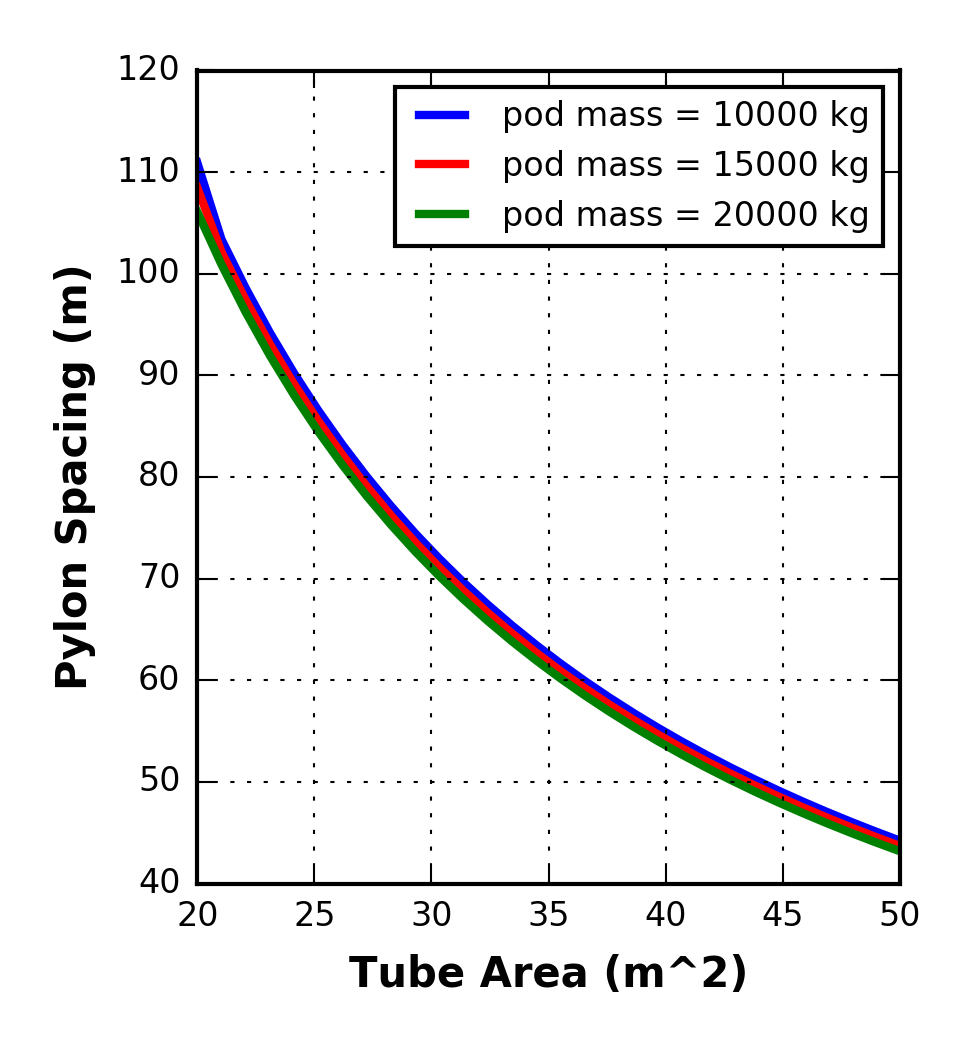
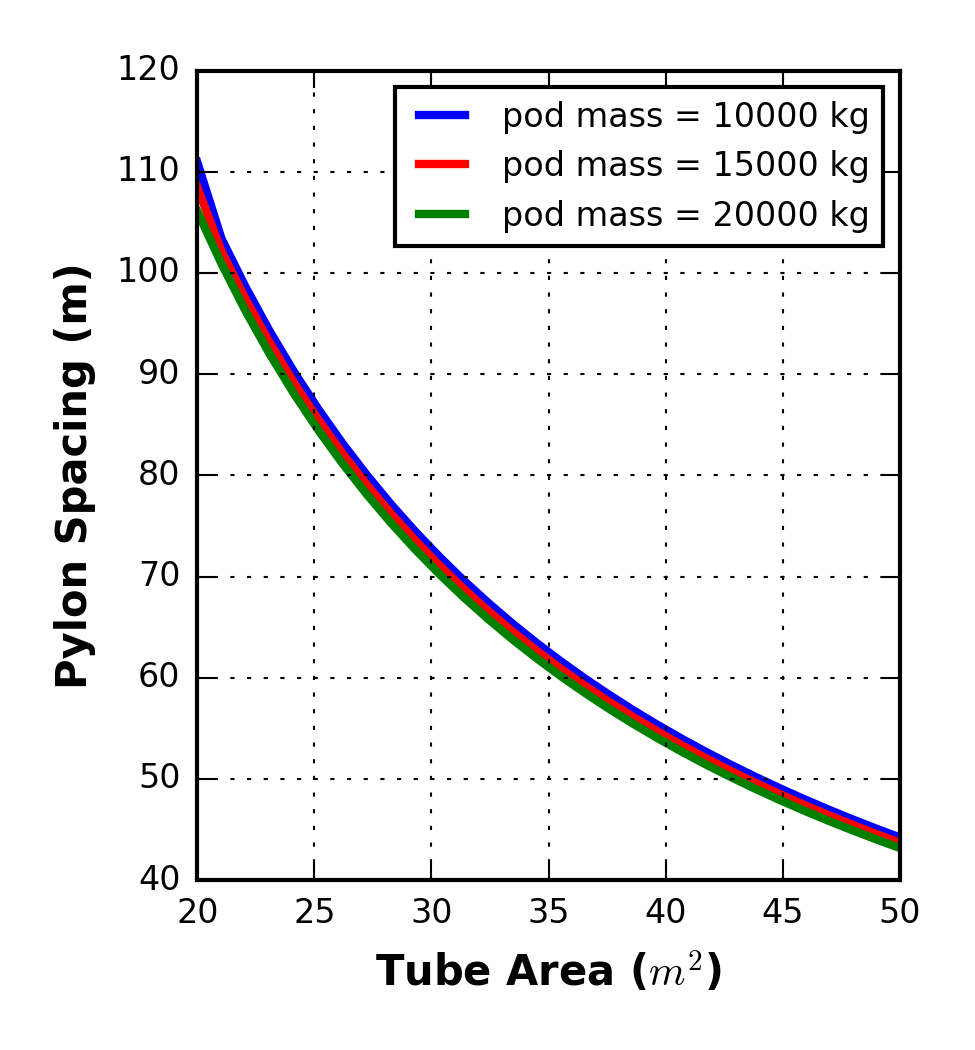
Updated m^2

diff --git a/paper/images/trade_scripts/pressure_zoom_writer.py b/paper/images/trade_scripts/pressure_zoom_writer.py
@@ -1,0 +1,149 @@
+import numpy as np
+import matplotlib.pylab as plt
+from openmdao.api import Group, Problem, IndepVarComp
+
+from hyperloop.Python import tube_and_pod
+
+# def create_problem(component):
+#     root = Group()
+#     prob = Problem(root)
+#     prob.root.add('comp', component)
+#     return prob
+
+# class PressureTradeStudy(object):
+#     def test_case1_vs_npss(self):
+
+#         component = tube_and_pod.TubeAndPod()
+#         prob = create_problem(component)
+
+if __name__ == '__main__':
+	prob = Problem()
+	root = prob.root = Group()
+
+	root.add('TubeAndPod', tube_and_pod.TubeAndPod())
+
+	params = (('tube_pressure', 850.0, {'units' : 'Pa'}),
+				('pressure_initial', 760.2, {'units' : 'torr'}),
+				('num_pods', 18.),
+				('pwr', 18.5, {'units' : 'kW'}),
+				('speed', 163333.3, {'units' : 'L/min'}),
+				('time_down', 1440.0, {'units' : 'min'}),
+				('gamma', .8, {'units' : 'unitless'}),
+				('pump_weight', 715.0, {'units' : 'kg'}),
+				('electricity_price', 0.13, {'units' : 'USD/(kW*h)'}),
+				('tube_thickness', .0415014, {'units' : 'm'}),
+				('tube_length', 480000., {'units' : 'm'}),
+				('vf', 286.85, {'units' : 'm/s'}),
+				('v0', 286.85-15.0, {'units' : 'm/s'}),
+				('time_thrust', 1.5, {'units' : 's'}),
+				('pod_mach', .8, {'units': 'unitless'}),
+				('comp_inlet_area', 2.3884, {'units': 'm**2'}),
+				('comp_PR', 6.0, {'units': 'unitless'}),
+				('PsE', 0.05588, {'units': 'psi'}),
+				('des_time', 1.0),
+				('time_of_flight', 1.0),
+				('motor_max_current', 800.0),
+				('motor_LD_ratio', 0.83),
+				('motor_oversize_factor', 1.0),
+				('inverter_efficiency', 1.0),
+				('battery_cross_section_area', 15000.0, {'units': 'cm**2'}),
+				('n_passengers', 28.),
+				('A_payload', 2.3248, {'units' : 'm**2'}),
+				('r_pylon', 0.232, {'units' : 'm'}),
+				('h', 10.0, {'units' : 'm'}),
+				('vel_b', 23.0, {'units': 'm/s'}),
+				('h_lev', 0.01, {'unit': 'm'}),
+				('vel', 286.86, {'units': 'm/s'}),
+				('pod_period', 120.0, {'units' : 's'}),
+				('ib', .04),
+				('bm', 20.0, {'units' : 'yr'}),
+				('track_length', 600.0, {'units' : 'km'}),
+				('avg_speed', 286.86, {'units' : 'm/s'}),
+				('depth', 10.0, {'units' : 'm'}),
+				('land_length', 600.0e3, {'units' : 'm'}),
+				('water_length', 0.0e3, {'units' : 'm'}),
+				('W', 1.0, {'units' : 'kg/s'}),
+				('operating_time', 16.0*3600.0, {'units' : 's'})
+				)
+
+	prob.root.add('des_vars', IndepVarComp(params))
+	prob.root.connect('des_vars.tube_pressure', 'TubeAndPod.tube_pressure')
+	prob.root.connect('des_vars.pressure_initial', 'TubeAndPod.pressure_initial')
+	prob.root.connect('des_vars.num_pods', 'TubeAndPod.num_pods')
+	prob.root.connect('des_vars.pwr','TubeAndPod.pwr')
+	prob.root.connect('des_vars.speed', 'TubeAndPod.speed')
+	prob.root.connect('des_vars.time_down', 'TubeAndPod.time_down')
+	prob.root.connect('des_vars.gamma','TubeAndPod.gamma')
+	prob.root.connect('des_vars.pump_weight','TubeAndPod.pump_weight')
+	prob.root.connect('des_vars.electricity_price','TubeAndPod.electricity_price')
+	prob.root.connect('des_vars.tube_thickness', 'TubeAndPod.tube_thickness')
+	prob.root.connect('des_vars.tube_length', 'TubeAndPod.tube_length')
+	prob.root.connect('des_vars.h', 'TubeAndPod.h')
+	prob.root.connect('des_vars.r_pylon', 'TubeAndPod.r_pylon')
+	prob.root.connect('des_vars.vf', 'TubeAndPod.vf')
+	prob.root.connect('des_vars.v0', 'TubeAndPod.v0')
+	prob.root.connect('des_vars.time_thrust', 'TubeAndPod.time_thrust')
+	prob.root.connect('des_vars.pod_mach', 'TubeAndPod.pod_mach')
+	prob.root.connect('des_vars.comp_inlet_area', 'TubeAndPod.comp_inlet_area')
+	prob.root.connect('des_vars.comp_PR', 'TubeAndPod.comp.map.PRdes')
+	prob.root.connect('des_vars.PsE', 'TubeAndPod.nozzle.Ps_exhaust')
+	prob.root.connect('des_vars.des_time', 'TubeAndPod.des_time')
+	prob.root.connect('des_vars.time_of_flight', 'TubeAndPod.time_of_flight')
+	prob.root.connect('des_vars.motor_max_current', 'TubeAndPod.motor_max_current')
+	prob.root.connect('des_vars.motor_LD_ratio', 'TubeAndPod.motor_LD_ratio')
+	prob.root.connect('des_vars.motor_oversize_factor', 'TubeAndPod.motor_oversize_factor')
+	prob.root.connect('des_vars.inverter_efficiency', 'TubeAndPod.inverter_efficiency')
+	prob.root.connect('des_vars.battery_cross_section_area', 'TubeAndPod.battery_cross_section_area')
+	prob.root.connect('des_vars.n_passengers', 'TubeAndPod.n_passengers')
+	prob.root.connect('des_vars.A_payload', 'TubeAndPod.A_payload')
+	prob.root.connect('des_vars.vel_b', 'TubeAndPod.vel_b')
+	prob.root.connect('des_vars.h_lev', 'TubeAndPod.h_lev')
+	prob.root.connect('des_vars.vel', 'TubeAndPod.vel')
+	prob.root.connect('des_vars.pod_period', 'TubeAndPod.cost.pod_period')
+	prob.root.connect('des_vars.ib', 'TubeAndPod.cost.ib')
+	prob.root.connect('des_vars.bm', 'TubeAndPod.cost.bm')
+	prob.root.connect('des_vars.track_length', 'TubeAndPod.track_length')
+	prob.root.connect('des_vars.avg_speed', 'TubeAndPod.cost.avg_speed')
+	prob.root.connect('des_vars.land_length', 'TubeAndPod.land_length')
+	prob.root.connect('des_vars.water_length', 'TubeAndPod.water_length')
+	prob.root.connect('des_vars.operating_time', 'TubeAndPod.operating_time')
+	prob.root.connect('des_vars.W', 'TubeAndPod.fl_start.W')
+
+	prob.setup()
+
+	p_tunnel = np.linspace(40.0, 500.0, num = 50, endpoint = False)
+	A_tube = np.zeros((1, len(p_tunnel)))
+	Re = np.zeros((1, len(p_tunnel)))
+	T_tunnel = np.zeros((1, len(p_tunnel)))
+	L_pod = np.zeros((1, len(p_tunnel)))
+	Drag = np.zeros((1, len(p_tunnel)))
+	power = np.zeros((1, len(p_tunnel)))
+	steady_vac = np.zeros((1,len(p_tunnel)))
+	total_energy = np.zeros((1, len(p_tunnel)))
+	thrust = np.zeros((1, len(p_tunnel)))
+
+	for i in range(len(p_tunnel)):
+
+		prob['des_vars.tube_pressure'] = p_tunnel[i]
+
+		prob.run()
+
+		A_tube[0,i] = prob['TubeAndPod.pod.A_tube']
+		Re[0,i] = prob['TubeAndPod.pod.pod_mach.Re']
+		T_tunnel[0,i] = prob['TubeAndPod.tube.temp_boundary']
+		L_pod[0,i] = prob['TubeAndPod.L_pod']
+		power[0,i] = -1.0*prob['TubeAndPod.pod.cycle.comp.power']
+		steady_vac[0,i] = -1.0*prob['TubeAndPod.tube.comp.power']
+		total_energy[0,i] = prob['TubeAndPod.cost.total_energy_cost']
+
+		print(i)
+
+
+	np.savetxt('../../../paper/images/data_files/pressure_zoom/p_tunnel.txt', p_tunnel, fmt = '%f', delimiter = '\t', newline = '\r\n')
+	np.savetxt('../../../paper/images/data_files/pressure_zoom/Re.txt', Re, fmt = '%f', delimiter = '\t', newline = '\r\n')
+	np.savetxt('../../../paper/images/data_files/pressure_zoom/A_tube.txt', A_tube, fmt = '%f', delimiter = '\t', newline = '\r\n')
+	np.savetxt('../../../paper/images/data_files/pressure_zoom/T_tunnel.txt', T_tunnel, fmt = '%f', delimiter = '\t', newline = '\r\n')
+	np.savetxt('../../../paper/images/data_files/pressure_zoom/L_pod.txt', L_pod, fmt = '%f', delimiter = '\t', newline = '\r\n')
+	np.savetxt('../../../paper/images/data_files/pressure_zoom/comp_power.txt', power, fmt = '%f', delimiter = '\t', newline = '\r\n')
+	np.savetxt('../../../paper/images/data_files/pressure_zoom/vac_power.txt', steady_vac, fmt = '%f', delimiter = '\t', newline = '\r\n')
+	np.savetxt('../../../paper/images/data_files/pressure_zoom/total_energy.txt', total_energy, fmt = '%f', delimiter = '\t', newline = '\r\n')

diff --git a/paper/images/trade_scripts/boundary_layer_growth_plot.py b/paper/images/trade_scripts/boundary_layer_growth_plot.py
@@ -9,11 +9,11 @@ ax = plt.axes()
 plt.setp(ax.get_xticklabels(), fontsize=8)
 plt.setp(ax.get_yticklabels(), fontsize=8)
 plt.hold(True)
-line1, = plt.plot(delta_star, A_tube[0,:], 'b-', linewidth = 2.0, label = 'A_pod = 2.0 m^2')
-line2, = plt.plot(delta_star, A_tube[1,:], 'r-', linewidth = 2.0, label = 'A_pod = 2.5 m^2')
-line3, = plt.plot(delta_star, A_tube[2,:], 'g-', linewidth = 2.0, label = 'A_pod = 3.0 m^2')
-plt.xlabel('Displacement Boundary Layer (m)', fontsize = 10, fontweight = 'bold')
-plt.ylabel('Tube Area (m^2)', fontsize = 10, fontweight = 'bold')
+line1, = plt.plot(delta_star, A_tube[0,:], 'b-', linewidth = 2.0, label = 'A_pod = 2.0 $m^2$')
+line2, = plt.plot(delta_star, A_tube[1,:], 'r-', linewidth = 2.0, label = 'A_pod = 2.5 $m^2$')
+line3, = plt.plot(delta_star, A_tube[2,:], 'g-', linewidth = 2.0, label = 'A_pod = 3.0 $m^2$')
+plt.xlabel('Boundary Layer Thickness (m)', fontsize = 8, fontweight = 'bold')
+plt.ylabel('Tube Area ($m^2$)', fontsize = 10, fontweight = 'bold')
 plt.grid('on')
 plt.xlim(.02, .12)
 plt.legend(handles = [line1, line2, line3], loc = 2, fontsize = 8)

diff --git a/paper/images/trade_scripts/boundary_layer_length_plot.py b/paper/images/trade_scripts/boundary_layer_length_plot.py
@@ -9,11 +9,11 @@ fig = plt.figure(figsize = (3.25,3.5), tight_layout = True)
 ax = plt.axes()
 plt.setp(ax.get_xticklabels(), fontsize=8)
 plt.setp(ax.get_yticklabels(), fontsize=8)
-line1, = plt.plot(L_pod, A_tube[0,:], 'b-', linewidth = 2.0, label = 'A_pod = 2.0 m^2')
-line2, = plt.plot(L_pod, A_tube[1,:], 'r-', linewidth = 2.0, label = 'A_pod = 2.5 m^2')
-line3, = plt.plot(L_pod, A_tube[2,:], 'g-', linewidth = 2.0, label = 'A_pod = 3.0 m^2')
+line1, = plt.plot(L_pod, A_tube[0,:], 'b-', linewidth = 2.0, label = 'A_pod = 2.0 $m^2$')
+line2, = plt.plot(L_pod, A_tube[1,:], 'r-', linewidth = 2.0, label = 'A_pod = 2.5 $m^2$')
+line3, = plt.plot(L_pod, A_tube[2,:], 'g-', linewidth = 2.0, label = 'A_pod = 3.0 $m^2$')
 plt.xlabel('Pod Length (m)', fontsize = 10, fontweight = 'bold')
-plt.ylabel('Tube Area (m^2)', fontsize = 10, fontweight = 'bold')
+plt.ylabel('Tube Area ($m^2$)', fontsize = 10, fontweight = 'bold')
 plt.ylim([15,45])
 plt.legend(handles = [line1, line2, line3], loc = 2, fontsize = 8)
 plt.grid('on')

diff --git a/paper/images/trade_scripts/underwater_structural_trades_plot.py b/paper/images/trade_scripts/underwater_structural_trades_plot.py
@@ -13,7 +13,7 @@ plt.setp(ax.get_yticklabels(), fontsize=8)
 line1, = plt.plot(A_tube, t[0,:], 'b-', linewidth = 2.0, label = 'depth = 20 m')
 line2, = plt.plot(A_tube, t[1,:], 'r-', linewidth = 2.0, label = 'depth = 40 m')
 line3, = plt.plot(A_tube, t[2,:], 'g-', linewidth = 2.0, label = 'depth = 60 m')
-plt.xlabel('Tube Area (m^2)', fontsize = 10, fontweight = 'bold')
+plt.xlabel('Tube Area ($m^2$)', fontsize = 10, fontweight = 'bold')
 plt.ylabel('Tube Thickness (m)', fontsize = 10, fontweight = 'bold')
 plt.grid('on')
 plt.legend(handles = [line1, line2, line3], loc = 2, fontsize = 8)

diff --git a/paper/images/trade_scripts/overland_structural_trades_plot.py b/paper/images/trade_scripts/overland_structural_trades_plot.py
@@ -14,7 +14,7 @@ plt.hold(True)
 line1, = plt.plot(A_tube, dx[0,:], 'b-', linewidth = 2.0, label = 'pod mass = 10000 kg')
 line2, = plt.plot(A_tube, dx[1,:], 'r-', linewidth = 2.0, label = 'pod mass = 15000 kg')
 line3, = plt.plot(A_tube, dx[2,:], 'g-', linewidth = 2.0, label = 'pod mass = 20000 kg')
-plt.xlabel('Tube Area (m^2)', fontsize = 10, fontweight = 'bold')
+plt.xlabel('Tube Area ($m^2$)', fontsize = 10, fontweight = 'bold')
 plt.ylabel('Pylon Spacing (m)', fontsize = 10, fontweight = 'bold')
 plt.grid('on')
 plt.legend(handles = [line1, line2, line3], loc = 1, fontsize = 8)

diff --git a/paper/images/trade_scripts/pressure_trades_plot.py b/paper/images/trade_scripts/pressure_trades_plot.py
@@ -16,7 +16,8 @@ plt.setp(ax.get_xticklabels(), fontsize=8)
 plt.setp(ax.get_yticklabels(), fontsize=8)
 plt.plot(p_tunnel, A_tube, 'b-', linewidth = 2.0)
 plt.xlabel('Tube Pressure (Pa)', fontsize = 10, fontweight = 'bold')
-plt.ylabel('Tube Area (m^2)', fontsize = 10, fontweight = 'bold')
+plt.ylabel('Tube Area ($m^2$)', fontsize = 10, fontweight = 'bold')
+ax.set_xticks([1000,2000,3000])
 plt.savefig('../graphs/pressure_trades/pressure_vs_Area.png', format = 'png', dpi = 300)
 plt.show()
 

diff --git a/paper/images/trade_scripts/capacity_trades_plot.py b/paper/images/trade_scripts/capacity_trades_plot.py
@@ -17,7 +17,7 @@ plt.setp(ax.get_xticklabels(), fontsize=8)
 plt.setp(ax.get_yticklabels(), fontsize=8)
 plt.plot(n_passengers, A_tube, linewidth = 2.0)
 plt.xlabel('Passengers per Pod', fontsize = 10, fontweight = 'bold')
-plt.ylabel('Tube Area (m^2)', fontsize = 10, fontweight = 'bold')
+plt.ylabel('Tube Area ($m^2$)', fontsize = 10, fontweight = 'bold')
 plt.savefig('../graphs/capacity_trades/passengers_vs_area.png', format = 'png', dpi = 300)
 plt.show()
 

diff --git a/paper/images/trade_scripts/mach_trades_plot.py b/paper/images/trade_scripts/mach_trades_plot.py
@@ -16,7 +16,7 @@ ax = plt.axes()
 plt.hold(True)
 plt.subplot(211)
 plt.plot(M_pod, A_tube, 'b-', linewidth = 2.0)
-plt.ylabel('Tube Area (m^2)', fontsize = 10, fontweight = 'bold')
+plt.ylabel('Tube Area ($m^2$)', fontsize = 10, fontweight = 'bold')
 plt.subplot(212)
 plt.plot(M_pod, total_energy/(1.0e6), 'r-', linewidth = 2.0)
 plt.xlabel('Mach Number', fontsize = 10, fontweight = 'bold')
